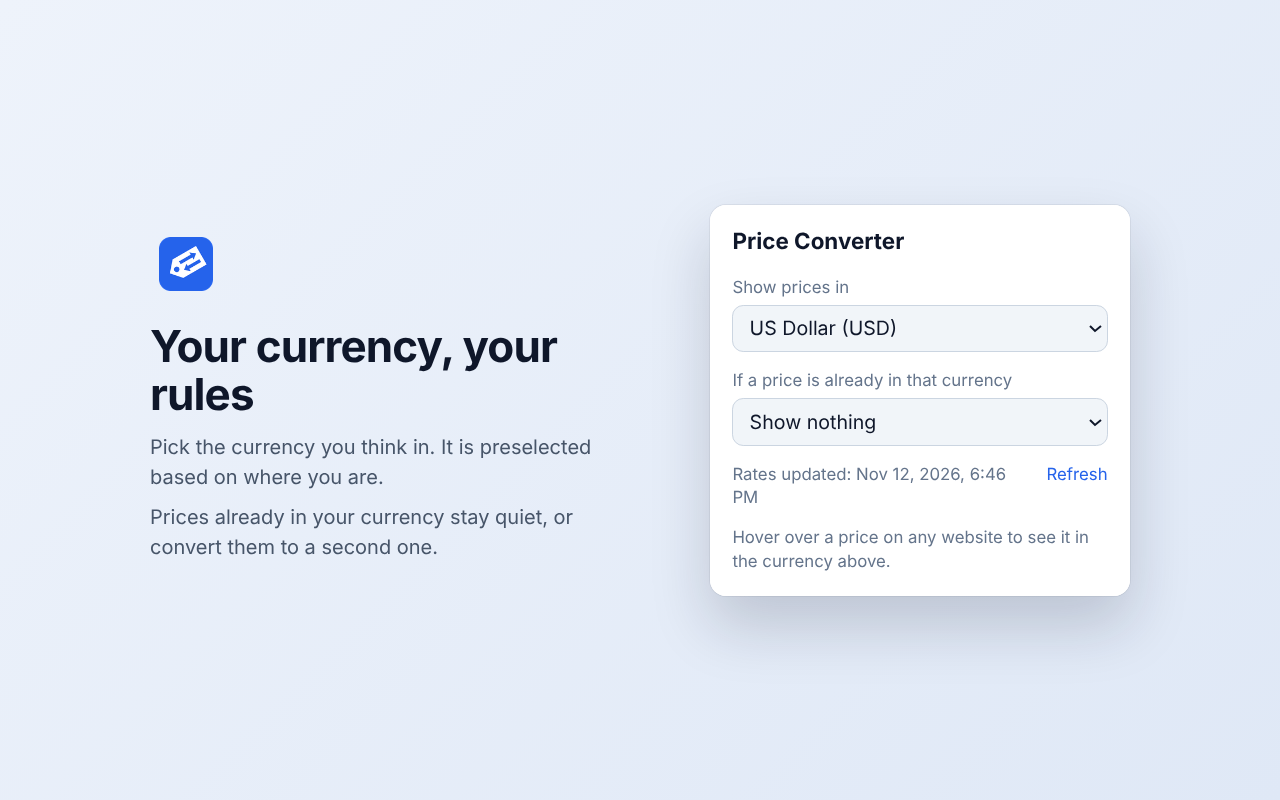
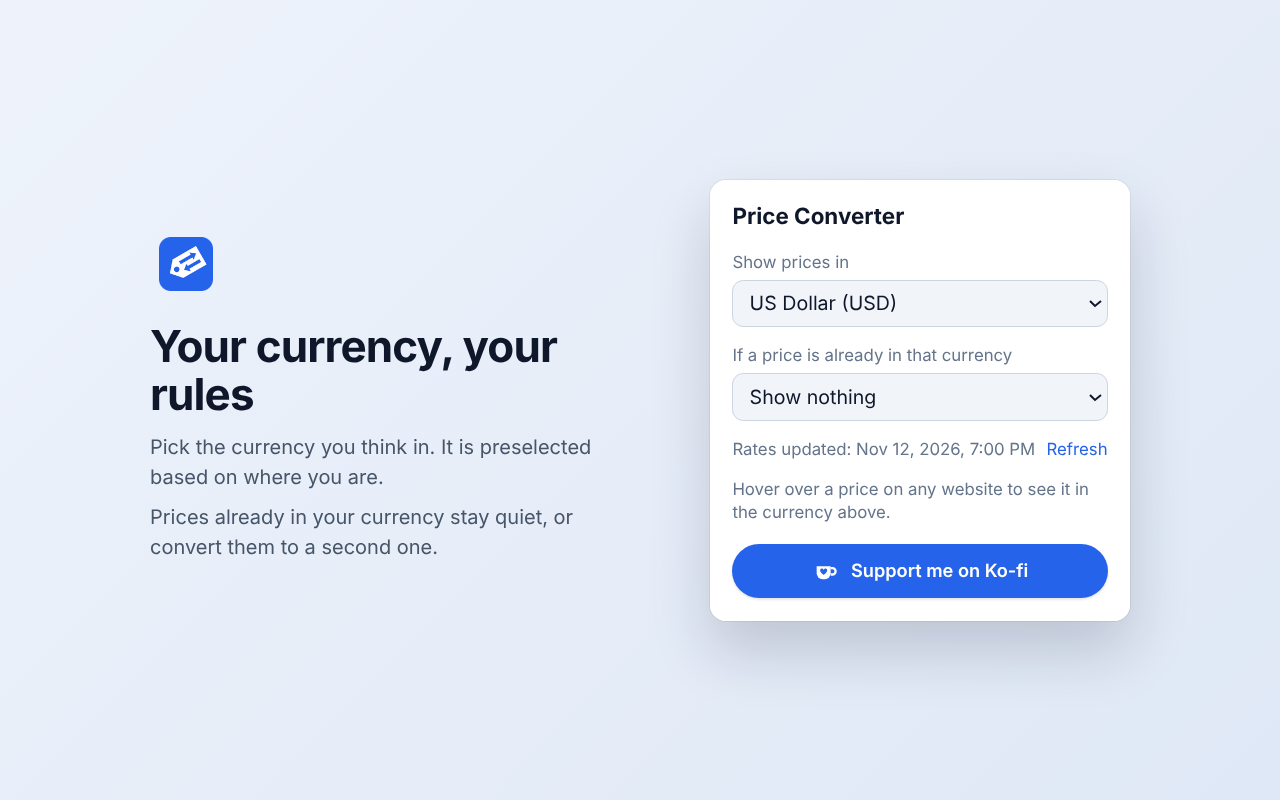
Add Ko-fi support button (1.7.0)
- Settings popup: "Support me on Ko-fi" button linking to
  ko-fi.com/R5C12AJWQ8, in the icon blue (#2563EB), translated into all
  7 languages. Plain link with a bundled cup icon: no remote script or
  image (extension CSP and store policy forbid remote code).
- Store listing: Ko-fi line in the English description, regenerated
  screenshots, version notes.
- Browser tests: wait for the install-time rate download before seeding
  mock rates (rate APIs are now reachable in this environment).

Claude-Session: https://claude.ai/code/session_01H2RF8WsED6wSt8edxjEt3N

Changed region(s): [[0.5312, 0.2188, 0.9062, 0.7812]]

diff --git a/test/e2e/page-css.e2e.js b/test/e2e/page-css.e2e.js
@@ -9,6 +9,14 @@ const html = `<!doctype html><meta charset=utf-8><style>body > div { display: bl
   const server = http.createServer((q, r) => { r.setHeader('content-type', 'text/html; charset=utf-8'); r.end(html); }).listen(8766);
   const ctx = await chromium.launchPersistentContext('', { headless: true, channel: 'chromium', args: [`--disable-extensions-except=${EXT}`, `--load-extension=${EXT}`] });
   let [sw] = ctx.serviceWorkers(); if (!sw) sw = await ctx.waitForEvent('serviceworker');
+  // A telepítéskor induló valódi árfolyam-letöltést megvárjuk, különben felülírná a teszt ál-árfolyamát.
+  await sw.evaluate(async () => {
+    for (let i = 0; i < 60; i++) {
+      const s = await chrome.storage.local.get(['rateData', 'lastError']);
+      if (s.rateData || s.lastError) return;
+      await new Promise(r => setTimeout(r, 250));
+    }
+  });
   await sw.evaluate(async (rates) => chrome.storage.local.set({ rateData: { rates, date: 'x', source: 't', fetchedAt: Date.now() } }), RATES);
   const page = await ctx.newPage(); await page.goto('http://localhost:8766/'); await page.waitForTimeout(500);
   const state = () => page.evaluate(() => { const h = [...document.querySelectorAll('div[popover]')].find(d => d.shadowRoot); if (!h) return 'nincs host';

diff --git a/test/e2e/locale.e2e.js b/test/e2e/locale.e2e.js
@@ -9,6 +9,14 @@ async function scenario(name, lang, locale, timezoneId) {
   const ctx = await chromium.launchPersistentContext('', { headless: true, channel: 'chromium', locale, timezoneId,
     args: [`--disable-extensions-except=${EXT}`, `--load-extension=${EXT}`, `--lang=${lang}`], viewport: { width: 800, height: 400 } });
   let [sw] = ctx.serviceWorkers(); if (!sw) sw = await ctx.waitForEvent('serviceworker');
+  // A telepítéskor induló valódi árfolyam-letöltést megvárjuk, különben felülírná a teszt ál-árfolyamát.
+  await sw.evaluate(async () => {
+    for (let i = 0; i < 60; i++) {
+      const s = await chrome.storage.local.get(['rateData', 'lastError']);
+      if (s.rateData || s.lastError) return;
+      await new Promise(r => setTimeout(r, 250));
+    }
+  });
   await sw.evaluate(async (rates) => chrome.storage.local.set({ rateData: { rates, date: 'x', source: 'test', fetchedAt: Date.now() }, lastError: null }), RATES);
   const page = await ctx.newPage(); await page.goto('http://localhost:8767/'); await page.waitForTimeout(500);
   const tip = () => page.evaluate(() => { const h = document.querySelector('div[data-hover-price-converter]'); return h && h.checkVisibility() ? h.shadowRoot.querySelector('.tip').textContent : null; });

diff --git a/test/e2e/hover.e2e.js b/test/e2e/hover.e2e.js
@@ -17,6 +17,14 @@ for (let i = 0; i < 20; i++) RATES['X' + String.fromCharCode(65 + i) + 'X'] = 1;
   });
   let [sw] = ctx.serviceWorkers();
   if (!sw) sw = await ctx.waitForEvent('serviceworker');
+  // A telepítéskor induló valódi árfolyam-letöltést megvárjuk, különben felülírná a teszt ál-árfolyamát.
+  await sw.evaluate(async () => {
+    for (let i = 0; i < 60; i++) {
+      const s = await chrome.storage.local.get(['rateData', 'lastError']);
+      if (s.rateData || s.lastError) return;
+      await new Promise(r => setTimeout(r, 250));
+    }
+  });
   await sw.evaluate(async (rates) => {
     await chrome.storage.local.set({ rateData: { rates, date: '2026-11-11', source: 'teszt', fetchedAt: Date.now() }, lastError: null });
     await chrome.storage.sync.set({ fallback: 'EUR' }); // a régi tesztek a forint -> euró viselkedést várják

diff --git a/popup/popup.css b/popup/popup.css
@@ -54,3 +54,15 @@ select:focus-visible { outline: 2px solid var(--accent); outline-offset: 1px; }
 .error { font-size: 12px; color: var(--err); margin-top: 6px; }
 
 .hint { font-size: 12px; color: var(--muted); margin: 12px 0 0; }
+
+/* Ko-fi támogatás gomb: sima link, külső szkript nélkül (a bővítményekben az tilos) */
+.support {
+  display: flex; align-items: center; justify-content: center; gap: 8px;
+  margin-top: 14px; padding: 9px 12px;
+  border-radius: 999px; background: #2563EB; color: #fff;
+  font-weight: 600; font-size: 13px; text-decoration: none;
+  box-shadow: 0 1px 2px rgb(0 0 0 / .12);
+}
+.support:hover { background: #1d4ed8; }
+.support:focus-visible { outline: 2px solid #2563EB; outline-offset: 2px; }
+.support .cup { width: 20px; height: 20px; flex: none; }

diff --git a/popup/popup.html b/popup/popup.html
@@ -28,6 +28,15 @@
 
   <p class="hint" data-i18n="hint">Hover over a price on any website to see it in the currency above.</p>
 
+  <a class="support" href="https://ko-fi.com/R5C12AJWQ8" target="_blank" rel="noopener">
+    <svg class="cup" viewBox="0 0 24 24" aria-hidden="true">
+      <path d="M4 8h12v6a5 5 0 0 1-5 5H9a5 5 0 0 1-5-5V8z" fill="#fff"/>
+      <path d="M16 9.5h1.5a2.75 2.75 0 0 1 0 5.5H16" fill="none" stroke="#fff" stroke-width="2"/>
+      <path d="M10 15.2s-3-1.9-3-3.7a1.5 1.5 0 0 1 3-.4 1.5 1.5 0 0 1 3 .4c0 1.8-3 3.7-3 3.7z" fill="#2563EB"/>
+    </svg>
+    <span data-i18n="supportLink">Support me on Ko-fi</span>
+  </a>
+
   <script src="../src/defaults.js"></script>
   <script src="popup.js"></script>
 </body>

diff --git a/store/CHROMEWEBSTORE.md b/store/CHROMEWEBSTORE.md
@@ -1,6 +1,6 @@
 # Chrome Web Store Listing — Price Converter on Mouse Hover
 
-> Last Updated: 2026-11-12 · Extension version: 1.6.1
+> Last Updated: 2026-11-13 · Extension version: 1.7.0
 
 Single source of truth for everything typed into the Chrome Web Store Developer Dashboard.
 Copy each block into the matching dashboard field. (Hungarian step-by-step guide: `PUBLISHING.md`.)
@@ -58,6 +58,8 @@ PERMISSIONS
 • "Read and change all your data on all websites" — needed to recognise prices on whatever page you are viewing and show the bubble next to them. The extension only reads the short piece of text around your mouse pointer, processes it locally, and never modifies or transmits page content.
 
 Exchange rates are for information only and may differ from the rate your bank or card applies.
+
+Like it? You can support development on Ko-fi: https://ko-fi.com/R5C12AJWQ8
 ```
 
 **Detailed Description — Hungarian** [RECOMMENDED — add as a second language in the dashboard]
@@ -201,7 +203,7 @@ Contact email already filled in (tamasrell@gmail.com).
 **Contact Email** [REQUIRED]: tamasrell@gmail.com (shown publicly; Google sends policy notices here)
 **Support URL / Email** [RECOMMENDED]: tamasrell@gmail.com
 **Homepage URL** [RECOMMENDED]: optional
-**Buy Me a Coffee**: planned for a later version (link in the popup). When added, mention it in the detailed description, e.g. "Like it? You can support development at …". Donation links are allowed; nothing may be locked behind them unless declared.
+**Ko-fi support link**: added in 1.7.0 as a button at the bottom of the settings popup (https://ko-fi.com/R5C12AJWQ8), and mentioned at the end of the English description. It is a plain link: no script or image is loaded from Ko-fi, and nothing is locked behind a donation.
 
 ---
 
@@ -209,13 +211,13 @@ Contact email already filled in (tamasrell@gmail.com).
 
 | Version | Date | Changes | Status |
 |---------|------|---------|--------|
-| 1.6.1 | 2026-11-13 | First store submission. New currency-neutral icon (price tag with exchange arrows). 160+ currencies; superscript cents and M/k multipliers; currency preselected from location (fallback USD); "show nothing" for prices already in the target currency (default); UI in 7 languages; bubble reliably hides on mouse-out, click, Escape, after 6 s idle. | Draft |
+| 1.7.0 | 2026-11-13 | First store submission. Ko-fi support button in the settings popup; new currency-neutral icon (price tag with exchange arrows). 160+ currencies; superscript cents and M/k multipliers; currency preselected from location (fallback USD); "show nothing" for prices already in the target currency (default); UI in 7 languages; bubble reliably hides on mouse-out, click, Escape, after 6 s idle. | Draft |
 
 ---
 
 ## Pre-submit checklist
 
-- [ ] `manifest_version` is 3, version bumped above the last uploaded one (now 1.6.1).
+- [ ] `manifest_version` is 3, version bumped above the last uploaded one (now 1.7.0).
 - [ ] ZIP contains only: `manifest.json`, `_locales/`, `src/`, `popup/`, `icons/` (no `store/`, `test/`, `tools/`, `README.md`, `CHROMEWEBSTORE.md`). Command in `PUBLISHING.md`.
 - [ ] Loaded the ZIP's contents unpacked in Chrome and tested: hover converts, popup opens, no console errors.
 - [ ] Every permission row above pasted into the dashboard.

diff --git a/store/PUBLISHING.md b/store/PUBLISHING.md
@@ -37,7 +37,7 @@ Mindkét esetben nyisd meg a linket egy **inkognitóablakban**, hogy biztosan be
 A projekt mappájában (`price-converter-on-mouse-hover`) futtasd ezt. Csak a bővítmény működéséhez szükséges fájlok kerülnek bele:
 
 ```bash
-zip -r price-converter-on-mouse-hover-1.6.1.zip manifest.json _locales src popup icons
+zip -r price-converter-on-mouse-hover-1.7.0.zip manifest.json _locales src popup icons
 ```
 
 A `store/`, `test/` és `tools/` mappát, valamint a `README.md`-t **ne** tedd bele.
@@ -89,6 +89,6 @@ A `CHROMEWEBSTORE.md` → *Permissions Justification* és *Privacy & Data Use* r
 5. **Submit for review.** A frissítések ellenőrzése általában gyorsabb, sokszor egy napon belül megvan.
 6. A telepített példányok a jóváhagyás után néhány órán belül maguktól frissülnek.
 
-## Buy Me a Coffee (később)
+## Ko-fi támogatás
 
-Ha bekerül a link a bővítménybe, egy rövid mondattal említsd meg a bolti leírás végén is (pl. „Like it? You can support development at …”). Adománylink megengedett, de semmilyen funkciót nem szabad mögé zárni.
+Az 1.7.0-tól a beállítások ablak alján van egy „Support me on Ko-fi” gomb (https://ko-fi.com/R5C12AJWQ8), és az angol bolti leírás végén is szerepel. Adománylink megengedett, de semmilyen funkciót nem szabad mögé zárni.

diff --git a/README.md b/README.md
@@ -13,6 +13,7 @@ Kattints a bővítmény ikonjára (vagy `chrome://extensions` → Ár átváltó
 - **Mutassa ebben a valutában** – a célvaluta (alap: a hely szerinti valuta, vagy dollár)
 - **Ha az ár már ebben a valutában van** – alapból nem mutat semmit; választható egy másik valuta is (pl. forint árnál euró)
 - árfolyamok kézi frissítése
+- „Support me on Ko-fi” gomb (sima link, külső szkript nélkül)
 
 Ki-be kapcsolni a Chrome bővítménykezelőjében lehet (`chrome://extensions`).
 
